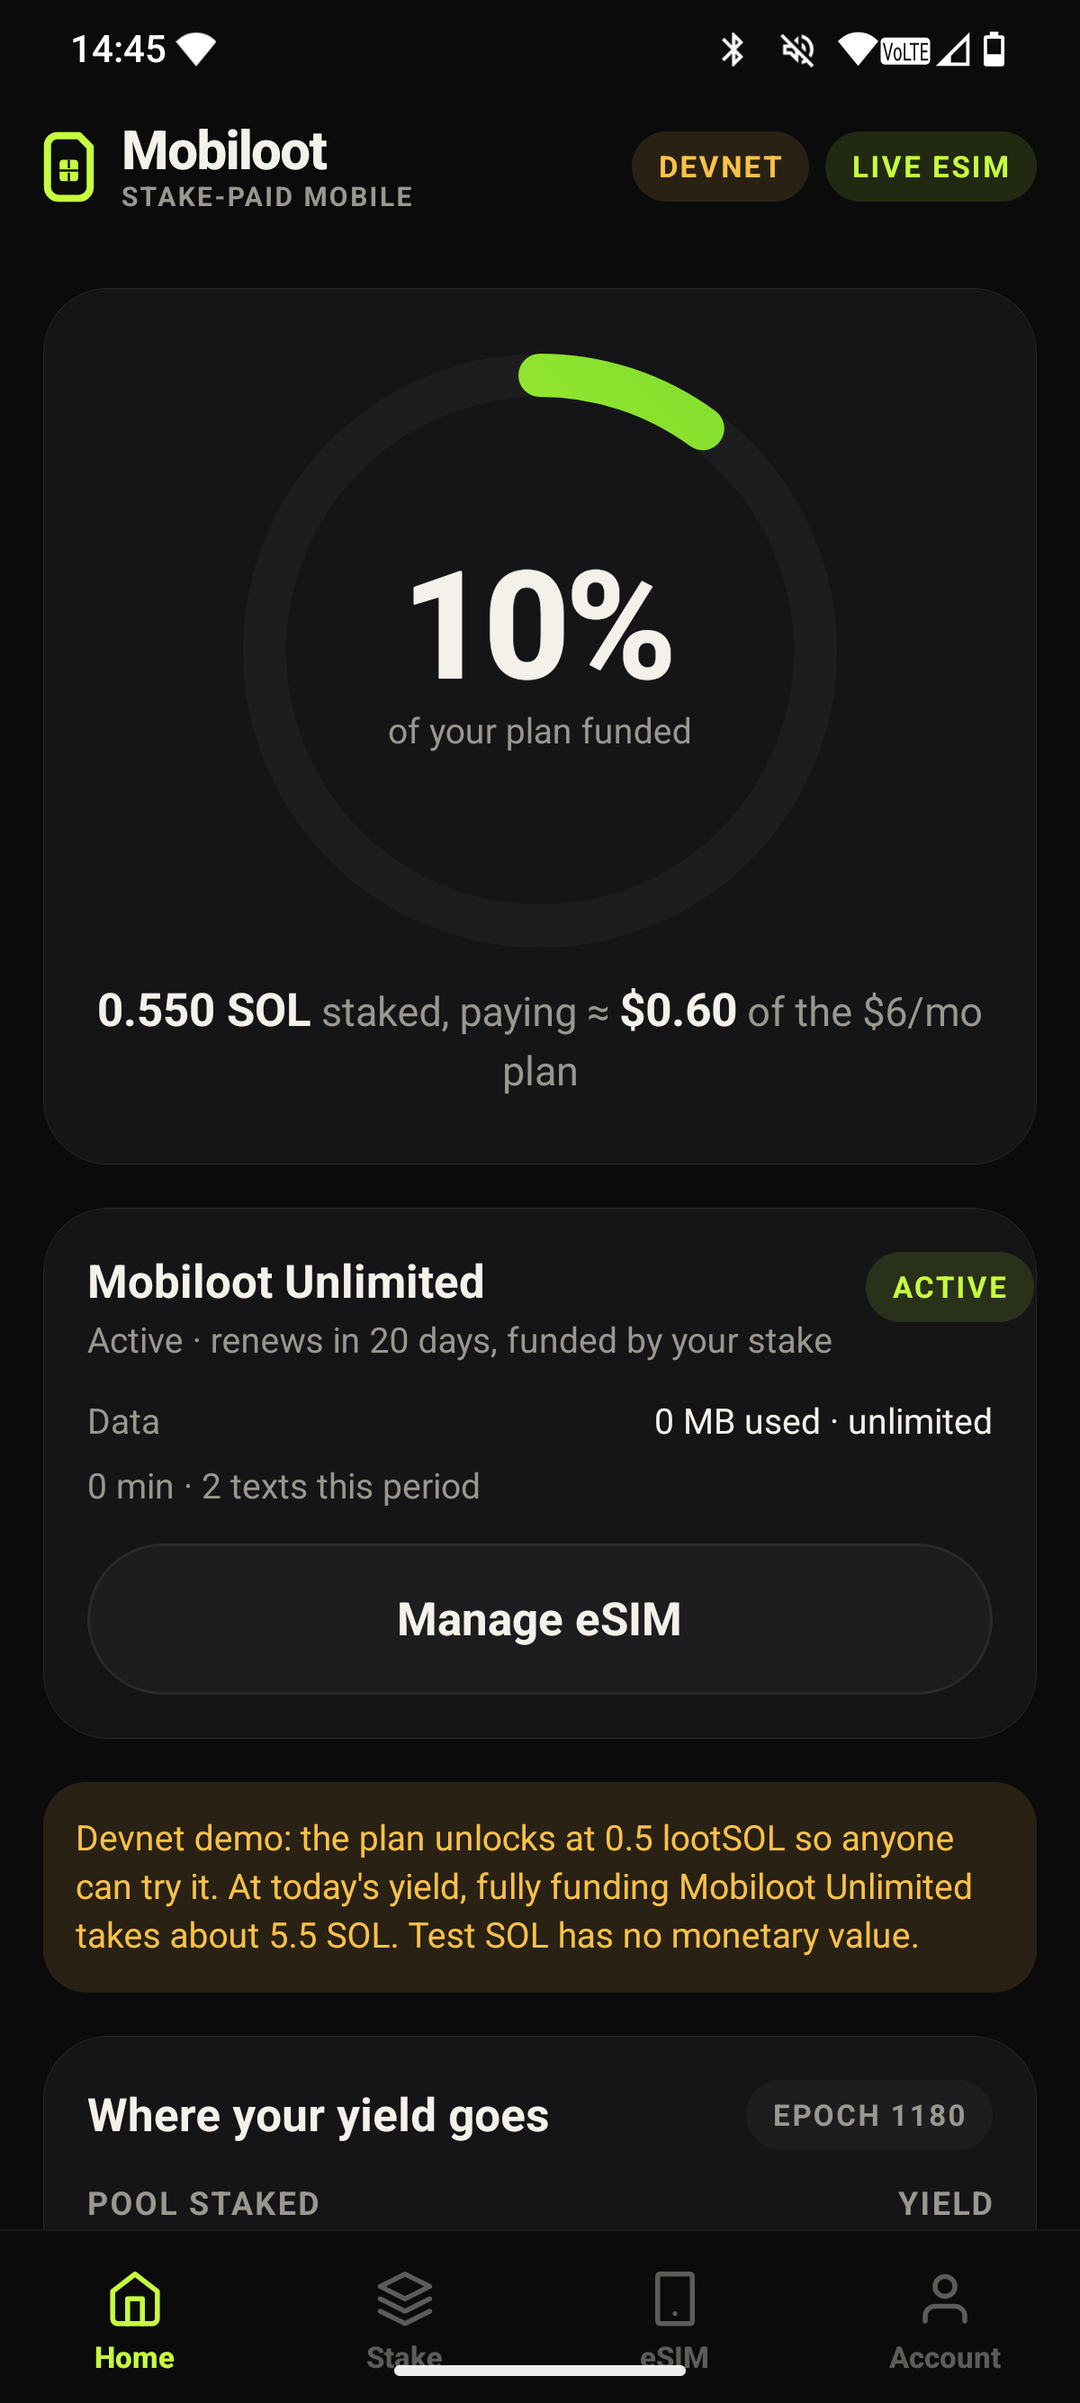
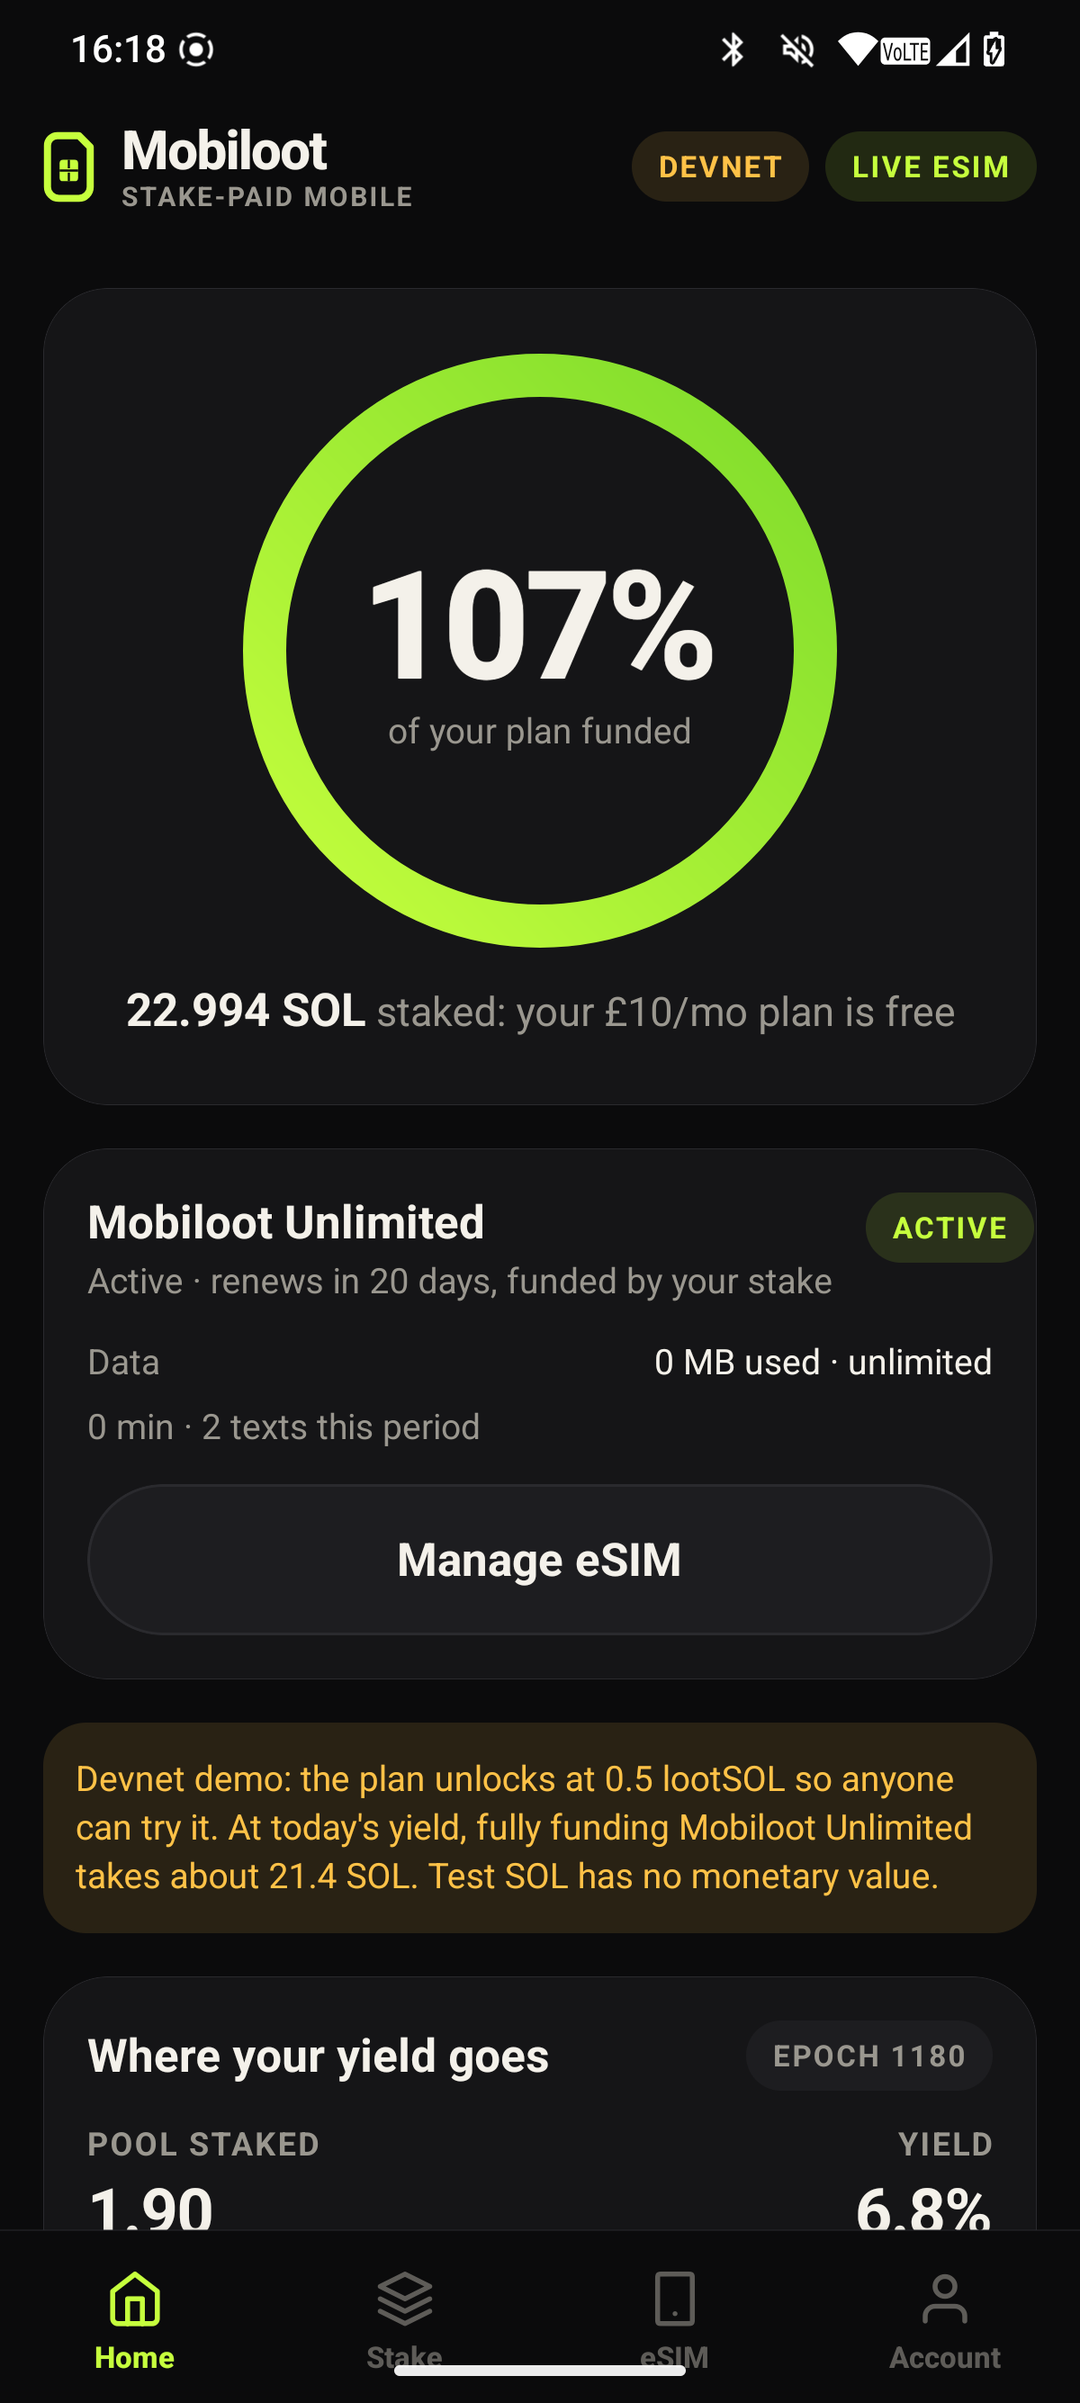
README: Home screenshot with the £10 plan fully funded

diff --git a/README.md b/README.md
@@ -41,7 +41,7 @@ the Seeker's own wallet or Phantom.
 
 | Home | Stake | eSIM | Account |
 | --- | --- | --- | --- |
-| <img src="docs/screenshots/seeker-home.png" width="180" alt="Home: 0.55 SOL staked funds 10% of the plan; Mobiloot Unlimited active"> | <img src="docs/screenshots/seeker-stake.png" width="180" alt="Stake screen with the plan-funding preview"> | <img src="docs/screenshots/seeker-esim.png" width="180" alt="eSIM tab: Mobiloot Unlimited eSIM ready, ICCID ending 0255, Install on this phone"> | <img src="docs/screenshots/seeker-account.png" width="180" alt="Account: Seeker wallet, 0.55 lootSOL"> |
+| <img src="docs/screenshots/seeker-home.png" width="180" alt="Home: 22.994 SOL staked, 107% funded: your £10/mo plan is free; Mobiloot Unlimited active"> | <img src="docs/screenshots/seeker-stake.png" width="180" alt="Stake screen with the plan-funding preview"> | <img src="docs/screenshots/seeker-esim.png" width="180" alt="eSIM tab: Mobiloot Unlimited eSIM ready, ICCID ending 0255, Install on this phone"> | <img src="docs/screenshots/seeker-account.png" width="180" alt="Account: Seeker wallet, 0.55 lootSOL"> |
 
 <sub>Captured on a Seeker on 11 Oct 2026, with a live Shaka eSIM and the Seeker wallet on devnet.</sub>
 
